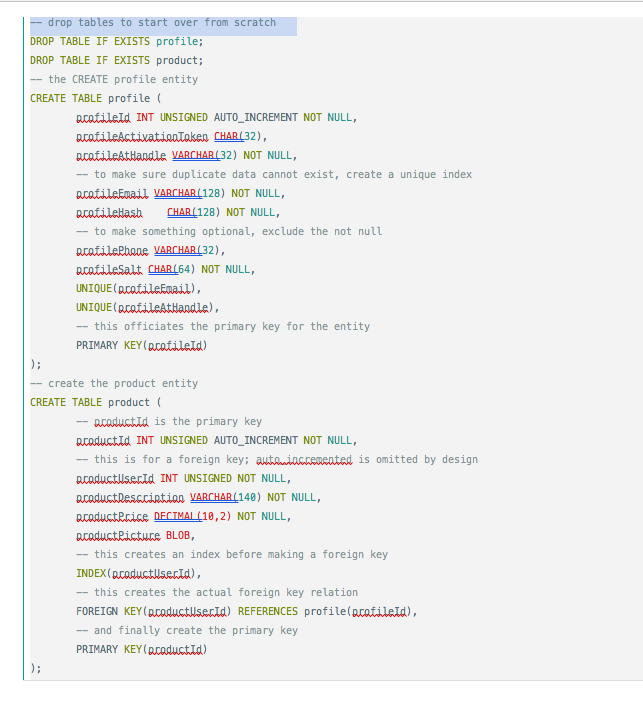
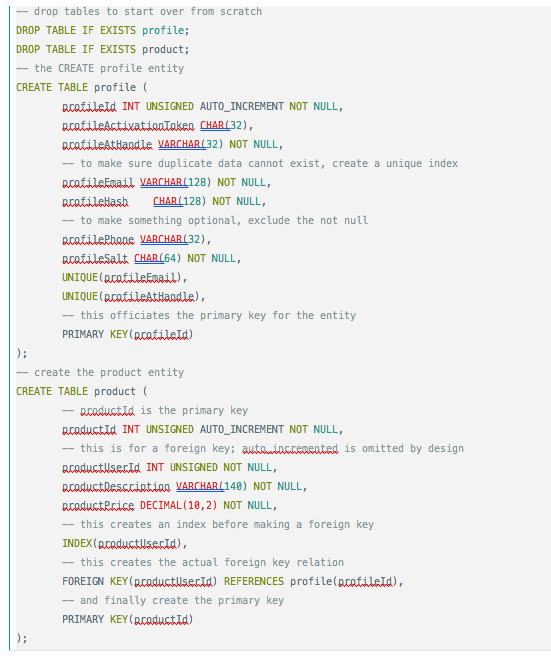
Added .sql file and made updates to diagram and content removing pictures attribute

Changed region(s): [[0.0309, 0.0, 0.833, 0.9639]]

diff --git a/epic/index.php b/epic/index.php
@@ -22,7 +22,7 @@
 		<h2>Interaction Flow</h2>
 		<ol>
 			<li>After the seller has logged into their already established account (Profile table already populated with profileId as primary key), the seller begins to create an item for sale.</li>
-			<li>The seller inputs a product name, description, and uploads pictures. This information is populated in the Product table.</li>
+			<li>The seller inputs a product name and description. This information is populated in the Product table.</li>
 			<li>The product is assigned a product number. Primary Key is created in the Product table.</li>
 			<li>Buyer lists product description, pictures, and price of available products.</li>
 		</ol>
@@ -45,19 +45,17 @@
 				<li>productUserId (Foreign Key)</li>
 				<li>productDescription</li>
 				<li>productPrice</li>
-				<li>productPicture</li>
 			</ul>
 		</ol>
 		<ol><p>Relationships</p>
 			<li>One profile has many products</li>
 			<li>One product has one description</li>
 			<li>One product has one price</li>
-			<li>One product has many pictures</li>
 			<li>One user lists many products</li>
 		</ol>
-		<h2>Entity Relationship Diagram (ERD)</h2>
-		<img src="Images/ERD_Diagram.jpg"alt="ERD Diagram">
+		<h2>Entity Relationship Diagram</h2>
+		<img src="Images/erd_diagram.jpg"alt="ERD Diagram">
 		<h2>Data Description Language (DDL) Script (ERD)</h2>
-		<img src="Images/DDL_Script.png"alt="DDL Script">
+		<img src="Images/ddl_script.png"alt="DDL Script">
 	</body>
 </html>
